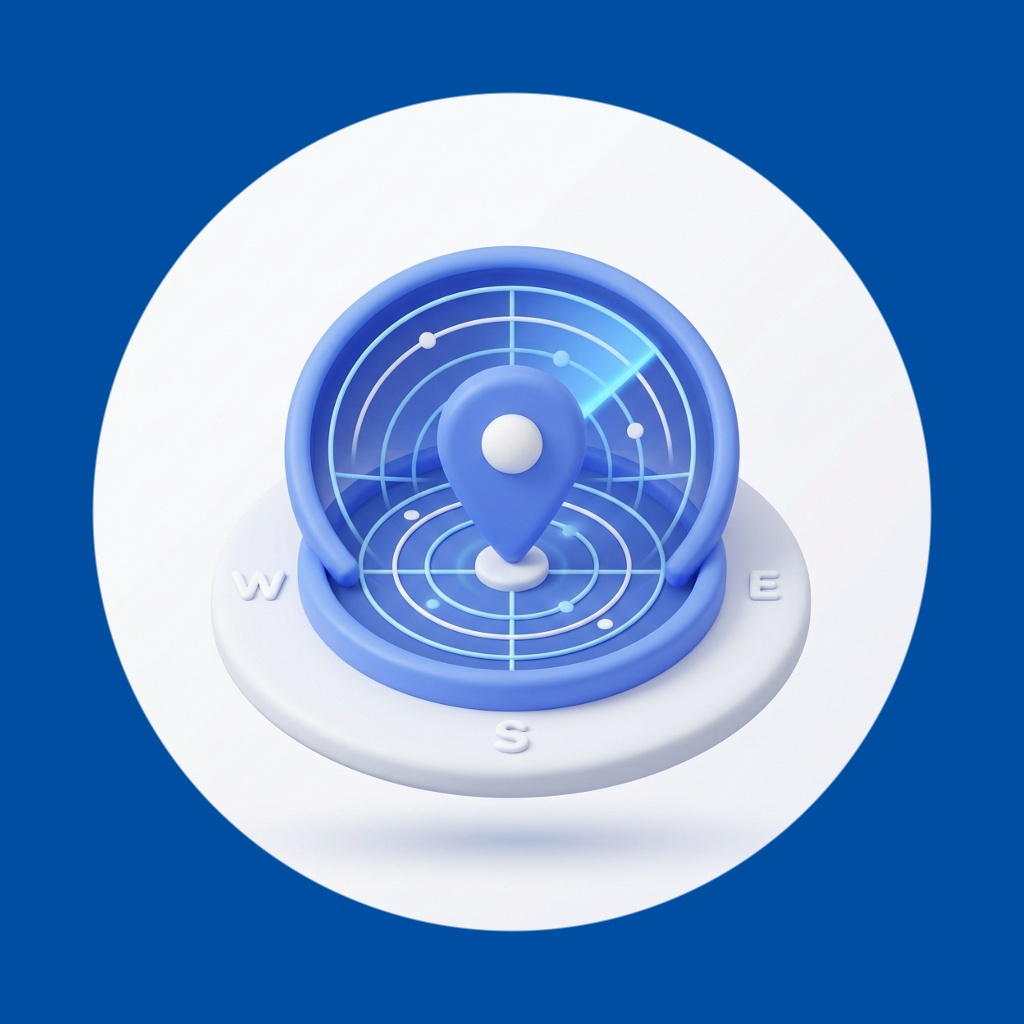
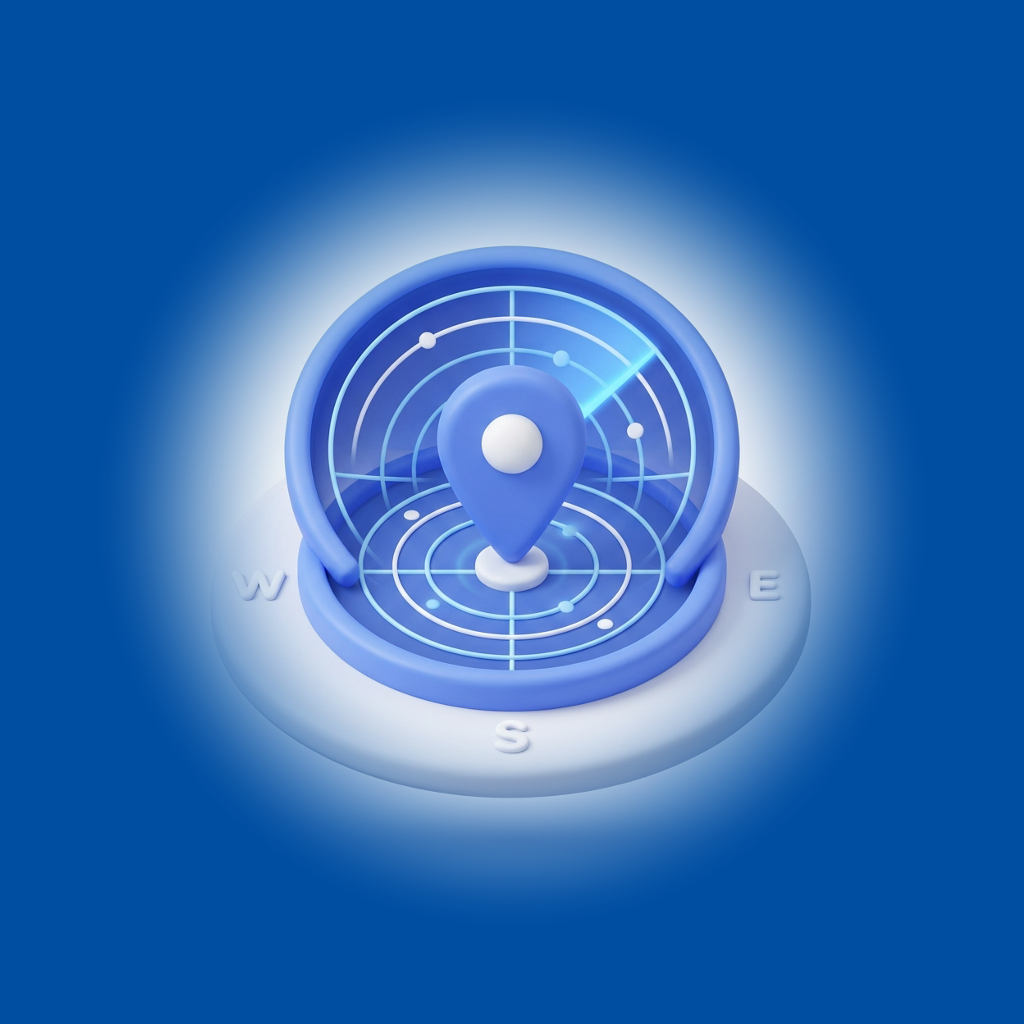
아이콘 배경 경계를 원형 하드컷에서 부드러운 비네트로 변경
"가운데 흰색 원반이 파란 배경과 각지게 분리돼 보인다"는 피드백에 따라,
경계 2px만 다듬던 방식 대신 반지름의 48% 지점부터 바깥 끝까지 넓은 구간에
걸쳐 smoothstep 곡선으로 서서히 배경색에 녹아들도록 변경. 원반과 배경의
경계선이 뚜렷하게 보이던 문제가 부드러운 글로우 형태로 해결됨.

flutter_launcher_icons 재실행으로 iOS/Android 전체 사이즈셋 갱신, iOS 알파
채널 제거 재확인. 빌드 성공, 실기기 설치 완료(기기 잠금으로 자동 실행은 안 됨).

diff --git a/tool/generate_app_icon_bg.dart b/tool/generate_app_icon_bg.dart
@@ -23,14 +23,15 @@ void main() {
   final resized = img.copyResize(src, width: insetSize, height: insetSize, interpolation: img.Interpolation.cubic);
 
   // 원본이 정사각형 배경을 그대로 갖고 있어서 그냥 합성하면 각진 사각형
-  // 테두리가 보인다("사각을 둥근형태로") — compositeImage의 mask 옵션은
-  // 채널 수가 다른 이미지끼리 섞을 때 색이 탁해지는 문제가 있어서, 픽셀
-  // 단위로 원 안쪽만 직접 복사하는 방식으로 확실하게 원형으로 잘라낸다.
-  // 가장자리 2px 정도는 배경색과 섞어서(안티앨리어싱) 계단 현상을 줄인다.
+  // 테두리가 보인다. 처음엔 원형으로 딱 잘라냈지만("사각을 둥근형태로") 그것도
+  // 가운데 흰 원반과 파란 배경이 각지게(둥글어도 경계선이 뚜렷하게) 분리돼
+  // 보인다는 피드백을 받아, 경계 몇 px만 다듬는 대신 안쪽 절반부터 바깥까지
+  // 넓은 구간에 걸쳐 서서히 배경색으로 녹아드는 비네트(vignette)로 바꿨다.
   final offsetX = (canvasSize - insetSize) ~/ 2;
   final offsetY = (canvasSize - insetSize) ~/ 2;
   final radius = insetSize / 2;
-  const featherPx = 2.0;
+  final innerR = radius * 0.48; // 여기까지는 원본 그대로(완전 불투명)
+  final outerR = radius; // 여기서부터는 배경색 100%
   final bgColor = img.ColorRgb8(0x00, 0x4E, 0xA2);
 
   for (var y = 0; y < insetSize; y++) {
@@ -38,10 +39,16 @@ void main() {
       final dx = x - radius + 0.5;
       final dy = y - radius + 0.5;
       final dist = sqrt(dx * dx + dy * dy);
-      if (dist > radius + featherPx) continue;
+      if (dist >= outerR) continue;
 
       final srcPixel = resized.getPixel(x, y);
-      final t = ((radius - dist) / featherPx).clamp(0.0, 1.0);
+      double t;
+      if (dist <= innerR) {
+        t = 1.0;
+      } else {
+        final linear = ((outerR - dist) / (outerR - innerR)).clamp(0.0, 1.0);
+        t = linear * linear * (3 - 2 * linear); // smoothstep — 부드러운 감쇠 곡선
+      }
       final r = srcPixel.r * t + bgColor.r * (1 - t);
       final g = srcPixel.g * t + bgColor.g * (1 - t);
       final b = srcPixel.b * t + bgColor.b * (1 - t);

diff --git a/macos/Flutter/GeneratedPluginRegistrant.swift b/macos/Flutter/GeneratedPluginRegistrant.swift
@@ -6,6 +6,7 @@ import FlutterMacOS
 import Foundation
 
 import file_selector_macos
+import flutter_secure_storage_macos
 import geocoding_darwin
 import geolocator_apple
 import google_sign_in_ios
@@ -17,6 +18,7 @@ import webview_flutter_wkwebview
 
 func RegisterGeneratedPlugins(registry: FlutterPluginRegistry) {
   FileSelectorPlugin.register(with: registry.registrar(forPlugin: "FileSelectorPlugin"))
+  FlutterSecureStoragePlugin.register(with: registry.registrar(forPlugin: "FlutterSecureStoragePlugin"))
   GeocodingDarwinPlugin.register(with: registry.registrar(forPlugin: "GeocodingDarwinPlugin"))
   GeolocatorPlugin.register(with: registry.registrar(forPlugin: "GeolocatorPlugin"))
   FLTGoogleSignInPlugin.register(with: registry.registrar(forPlugin: "FLTGoogleSignInPlugin"))

diff --git a/linux/flutter/generated_plugin_registrant.cc b/linux/flutter/generated_plugin_registrant.cc
@@ -7,12 +7,16 @@
 #include "generated_plugin_registrant.h"
 
 #include <file_selector_linux/file_selector_plugin.h>
+#include <flutter_secure_storage_linux/flutter_secure_storage_linux_plugin.h>
 #include <url_launcher_linux/url_launcher_plugin.h>
 
 void fl_register_plugins(FlPluginRegistry* registry) {
   g_autoptr(FlPluginRegistrar) file_selector_linux_registrar =
       fl_plugin_registry_get_registrar_for_plugin(registry, "FileSelectorPlugin");
   file_selector_plugin_register_with_registrar(file_selector_linux_registrar);
+  g_autoptr(FlPluginRegistrar) flutter_secure_storage_linux_registrar =
+      fl_plugin_registry_get_registrar_for_plugin(registry, "FlutterSecureStorageLinuxPlugin");
+  flutter_secure_storage_linux_plugin_register_with_registrar(flutter_secure_storage_linux_registrar);
   g_autoptr(FlPluginRegistrar) url_launcher_linux_registrar =
       fl_plugin_registry_get_registrar_for_plugin(registry, "UrlLauncherPlugin");
   url_launcher_plugin_register_with_registrar(url_launcher_linux_registrar);

diff --git a/windows/flutter/generated_plugin_registrant.cc b/windows/flutter/generated_plugin_registrant.cc
@@ -7,6 +7,7 @@
 #include "generated_plugin_registrant.h"
 
 #include <file_selector_windows/file_selector_windows.h>
+#include <flutter_secure_storage_windows/flutter_secure_storage_windows_plugin.h>
 #include <geolocator_windows/geolocator_windows.h>
 #include <permission_handler_windows/permission_handler_windows_plugin.h>
 #include <url_launcher_windows/url_launcher_windows.h>
@@ -14,6 +15,8 @@
 void RegisterPlugins(flutter::PluginRegistry* registry) {
   FileSelectorWindowsRegisterWithRegistrar(
       registry->GetRegistrarForPlugin("FileSelectorWindows"));
+  FlutterSecureStorageWindowsPluginRegisterWithRegistrar(
+      registry->GetRegistrarForPlugin("FlutterSecureStorageWindowsPlugin"));
   GeolocatorWindowsRegisterWithRegistrar(
       registry->GetRegistrarForPlugin("GeolocatorWindows"));
   PermissionHandlerWindowsPluginRegisterWithRegistrar(
